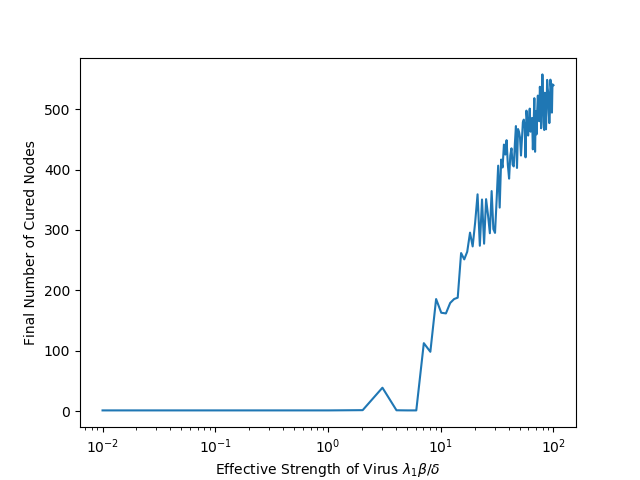
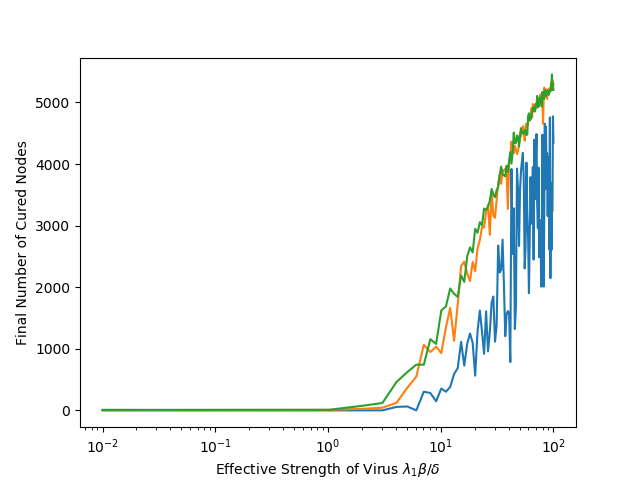
first experiments with initial values

diff --git a/code/Operation Spectrum/gillespie_with_EoN.py b/code/Operation Spectrum/gillespie_with_EoN.py
@@ -26,7 +26,7 @@ E = importEdgeListFile("data/asgraph/as20000102.txt", '\t')
 # Simulation parameters
 initial_size = 10  # number of initially infected nodes (randomly distributed)
 iterations = 10  # number of independent simulation runs (overall results are average)
-
+initial_sizes = [1, 5, 10, 50]
 
 eig = obtainMaxEig(E, False, 2)
 print(str(len(E.nodes)) + " nodes")
@@ -82,7 +82,7 @@ def fig_5_left(G, initial_size, iterations):
     plt.xlabel("Time ticks")
     plt.ylabel("Fraction of Infected People")
     plt.grid()
-    plt.savefig('fig_5_left.png')
+    plt.savefig('./images/fig_5_left.png')
     plt.show()
 
 
@@ -100,11 +100,29 @@ def fig_5_right(G, initial_size, iterations):
     plt.xlabel(r'Effective Strength of Virus $\lambda_1\beta/\delta$')
     plt.ylabel("Final Number of Cured Nodes")
     plt.grid()
-    plt.savefig('fig_5_right.png')
+    plt.savefig('./images/fig_5_right.png')
     plt.show()
 
+def fig_5_right_initial(G, initial_sizes, iterations):
+    start_time = 0
+    end_time = 10
+    delta = eig
+    number_of_steps = 100
+    beta_range = scipy.linspace(10 ** (-2), 10 ** 2, number_of_steps)
+    final_number_of_cured_nodes = scipy.zeros_like(beta_range)
+    for j in range(0, len(initial_sizes)):
+        for i, beta in enumerate(beta_range):
+            final_number_of_cured_nodes[i] = time_evolution_SIR(G, beta, delta, initial_sizes[j], start_time, end_time,
+                                                                iterations, "Hi", opt='number_of_cured_nodes')
+        plt.semilogx(beta_range, final_number_of_cured_nodes)
+    plt.grid()
+    plt.xlabel(r'Effective Strength of Virus $\lambda_1\beta/\delta$')
+    plt.ylabel("Final Number of Cured Nodes")
+    plt.grid()
+    # plt.savefig('./images/fig_5_right.png')
+    plt.show()
 
 if __name__ == "__main__":
-    fig_5_left(E, initial_size, iterations)
-    fig_5_right(E, initial_size, iterations)
-
+    #fig_5_left(E, initial_size, iterations)
+    #fig_5_right(E, initial_size, iterations)
+    fig_5_right_initial(E, initial_sizes, iterations)
